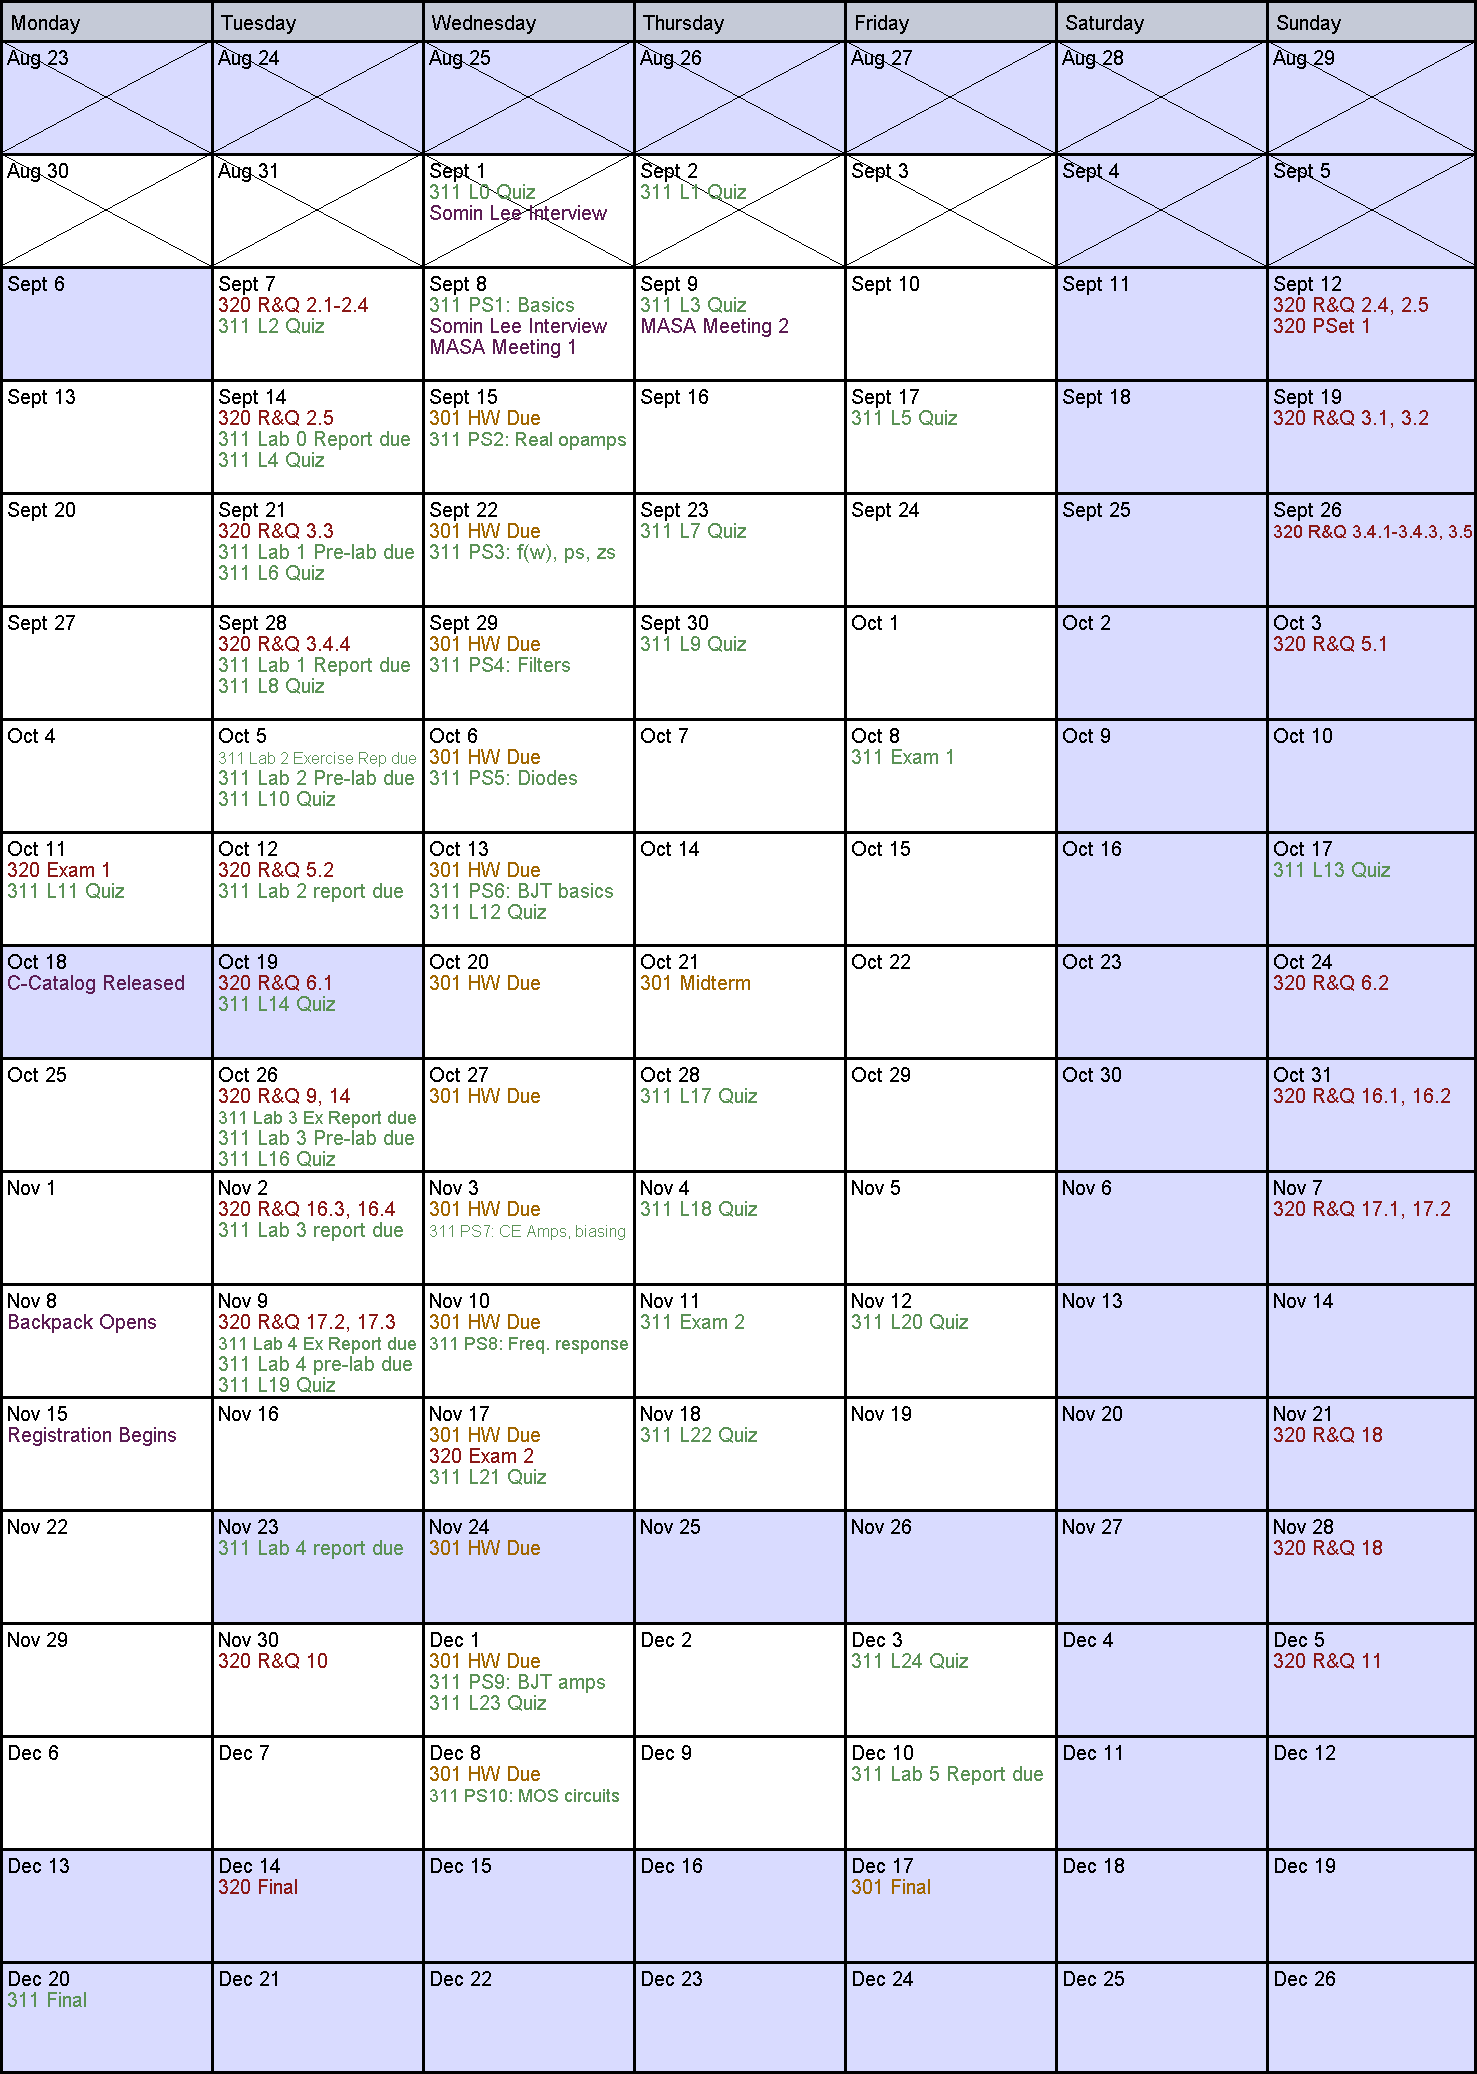
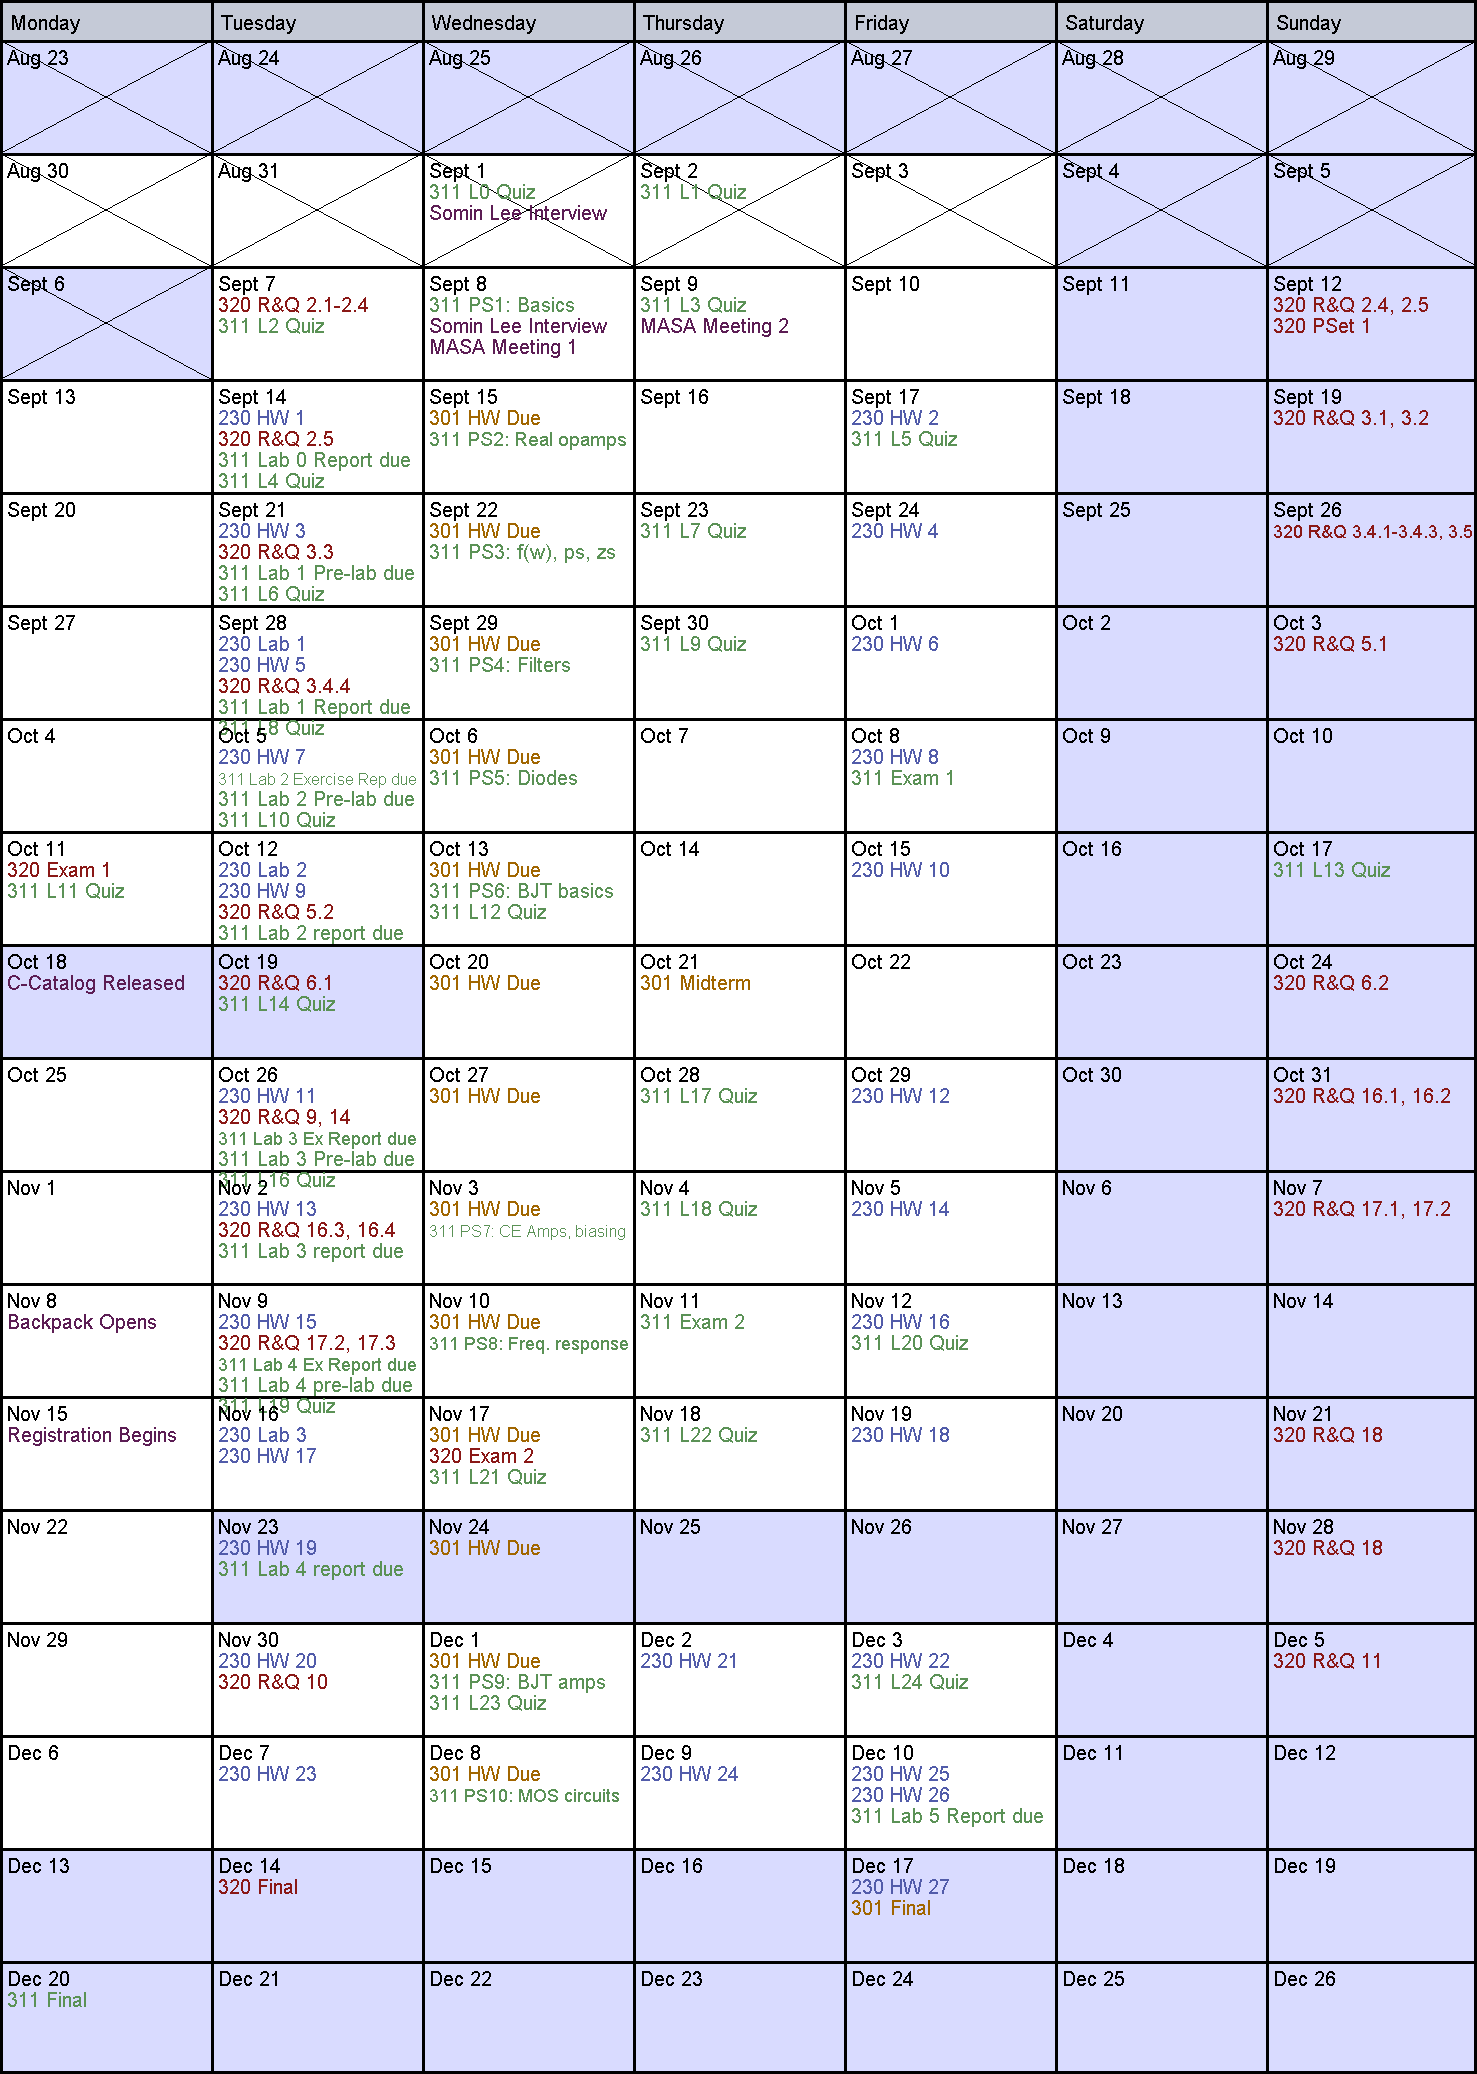
added 230

diff --git a/src/Calendar.java b/src/Calendar.java
@@ -85,6 +85,37 @@ public class Calendar extends Applet implements Runnable, KeyListener {
     //           ADD EVENTS TO THE CALENDAR
     public void addEvents(){
         addWeeklyEvents();
+        addEvent("230 Lab 1", getDayofYear(28,9), 1);
+        addEvent("230 Lab 2", getDayofYear(12,10), 1);
+        addEvent("230 Lab 3", getDayofYear(16,11), 1);
+        addEvent("230 HW 1", getDayofYear(14,9), 1);
+        addEvent("230 HW 2", getDayofYear(17,9), 1);
+        addEvent("230 HW 3", getDayofYear(21,9), 1);
+        addEvent("230 HW 4", getDayofYear(24,9), 1);
+        addEvent("230 HW 5", getDayofYear(28,9), 1);
+        addEvent("230 HW 6", getDayofYear(1,10), 1);
+        addEvent("230 HW 7", getDayofYear(5,10), 1);
+        addEvent("230 HW 8", getDayofYear(8,10), 1);
+        addEvent("230 HW 9", getDayofYear(12,10), 1);
+        addEvent("230 HW 10", getDayofYear(15,10), 1);
+        addEvent("230 HW 11", getDayofYear(26,10), 1);
+        addEvent("230 HW 12", getDayofYear(29,10), 1);
+        addEvent("230 HW 13", getDayofYear(2,11), 1);
+        addEvent("230 HW 14", getDayofYear(5,11), 1);
+        addEvent("230 HW 15", getDayofYear(9,11), 1);
+        addEvent("230 HW 16", getDayofYear(12,11), 1);
+        addEvent("230 HW 17", getDayofYear(16,11), 1);
+        addEvent("230 HW 18", getDayofYear(19,11), 1);
+        addEvent("230 HW 19", getDayofYear(23,11), 1);
+        addEvent("230 HW 20", getDayofYear(30,11), 1);
+        addEvent("230 HW 21", getDayofYear(2,12), 1);
+        addEvent("230 HW 22", getDayofYear(3,12), 1);
+        addEvent("230 HW 23", getDayofYear(7,12), 1);
+        addEvent("230 HW 24", getDayofYear(9,12), 1);
+        addEvent("230 HW 25", getDayofYear(10,12), 1);
+        addEvent("230 HW 26", getDayofYear(10,12), 1);
+        addEvent("230 HW 27", getDayofYear(17,12), 1);
+
 
         addEvent("301 Midterm", getDayofYear(21,10), 5);
         addEvent("301 Final", getDayofYear(17,12), 5);
